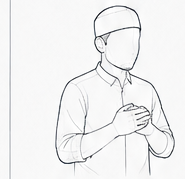
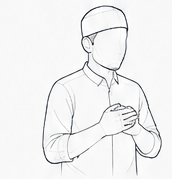
Remove leftover card-border line from Wudu step 1 and step 5 images
The previous crop left a thin vertical remnant of the original card's
rounded border on the left edge of these two images specifically (the
padding added after finding each figure's bounding box happened to land
right on the border line instead of clearing it). Trimmed a few more
columns off the left edge of both.

Changed region(s): [[0.2326, 0.0279, 0.9593, 0.9777], [0.0291, 0.0, 0.0581, 1.0], [0.3488, 0.6704, 0.3779, 0.6983]]

diff --git a/public/flutter_bootstrap.js b/public/flutter_bootstrap.js
@@ -37,6 +37,6 @@ _flutter.buildConfig = {"engineRevision":"0cd610717bde95fd88343c64f81c11ba4e5c00
 
 _flutter.loader.load({
   serviceWorkerSettings: {
-    serviceWorkerVersion: "1731443245" /* Flutter's service worker is deprecated and will be removed in a future Flutter release. */
+    serviceWorkerVersion: "773952821" /* Flutter's service worker is deprecated and will be removed in a future Flutter release. */
   }
 });
